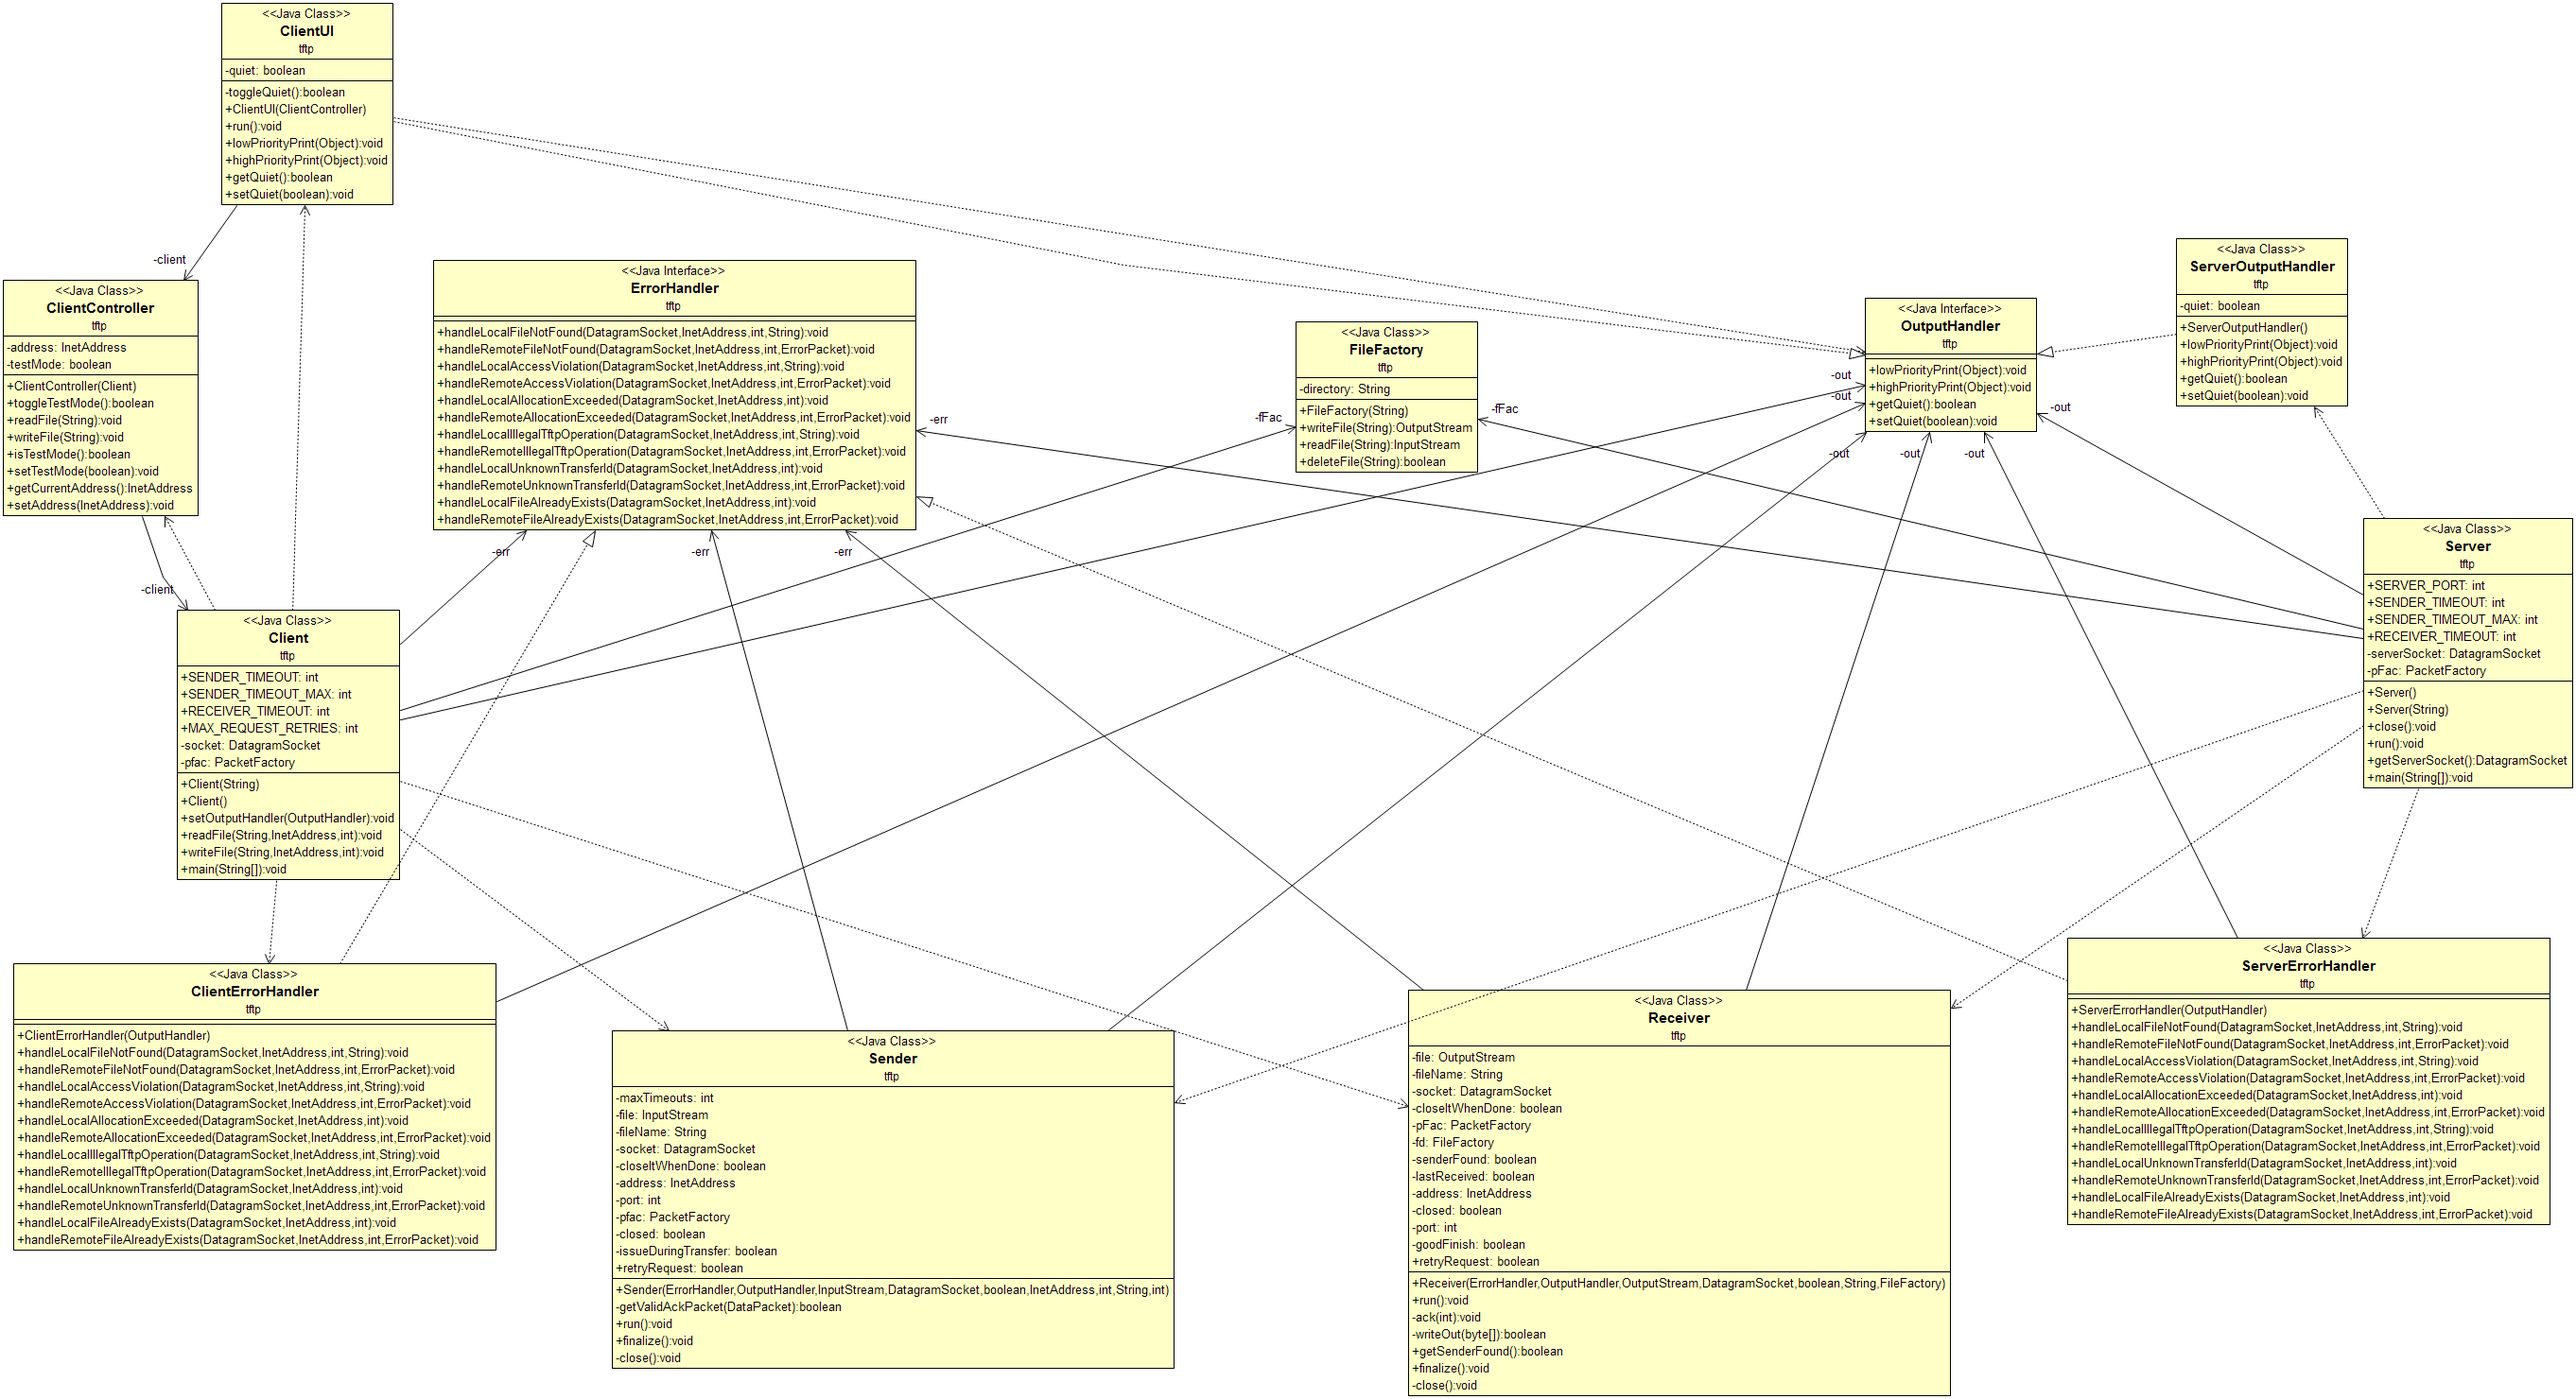
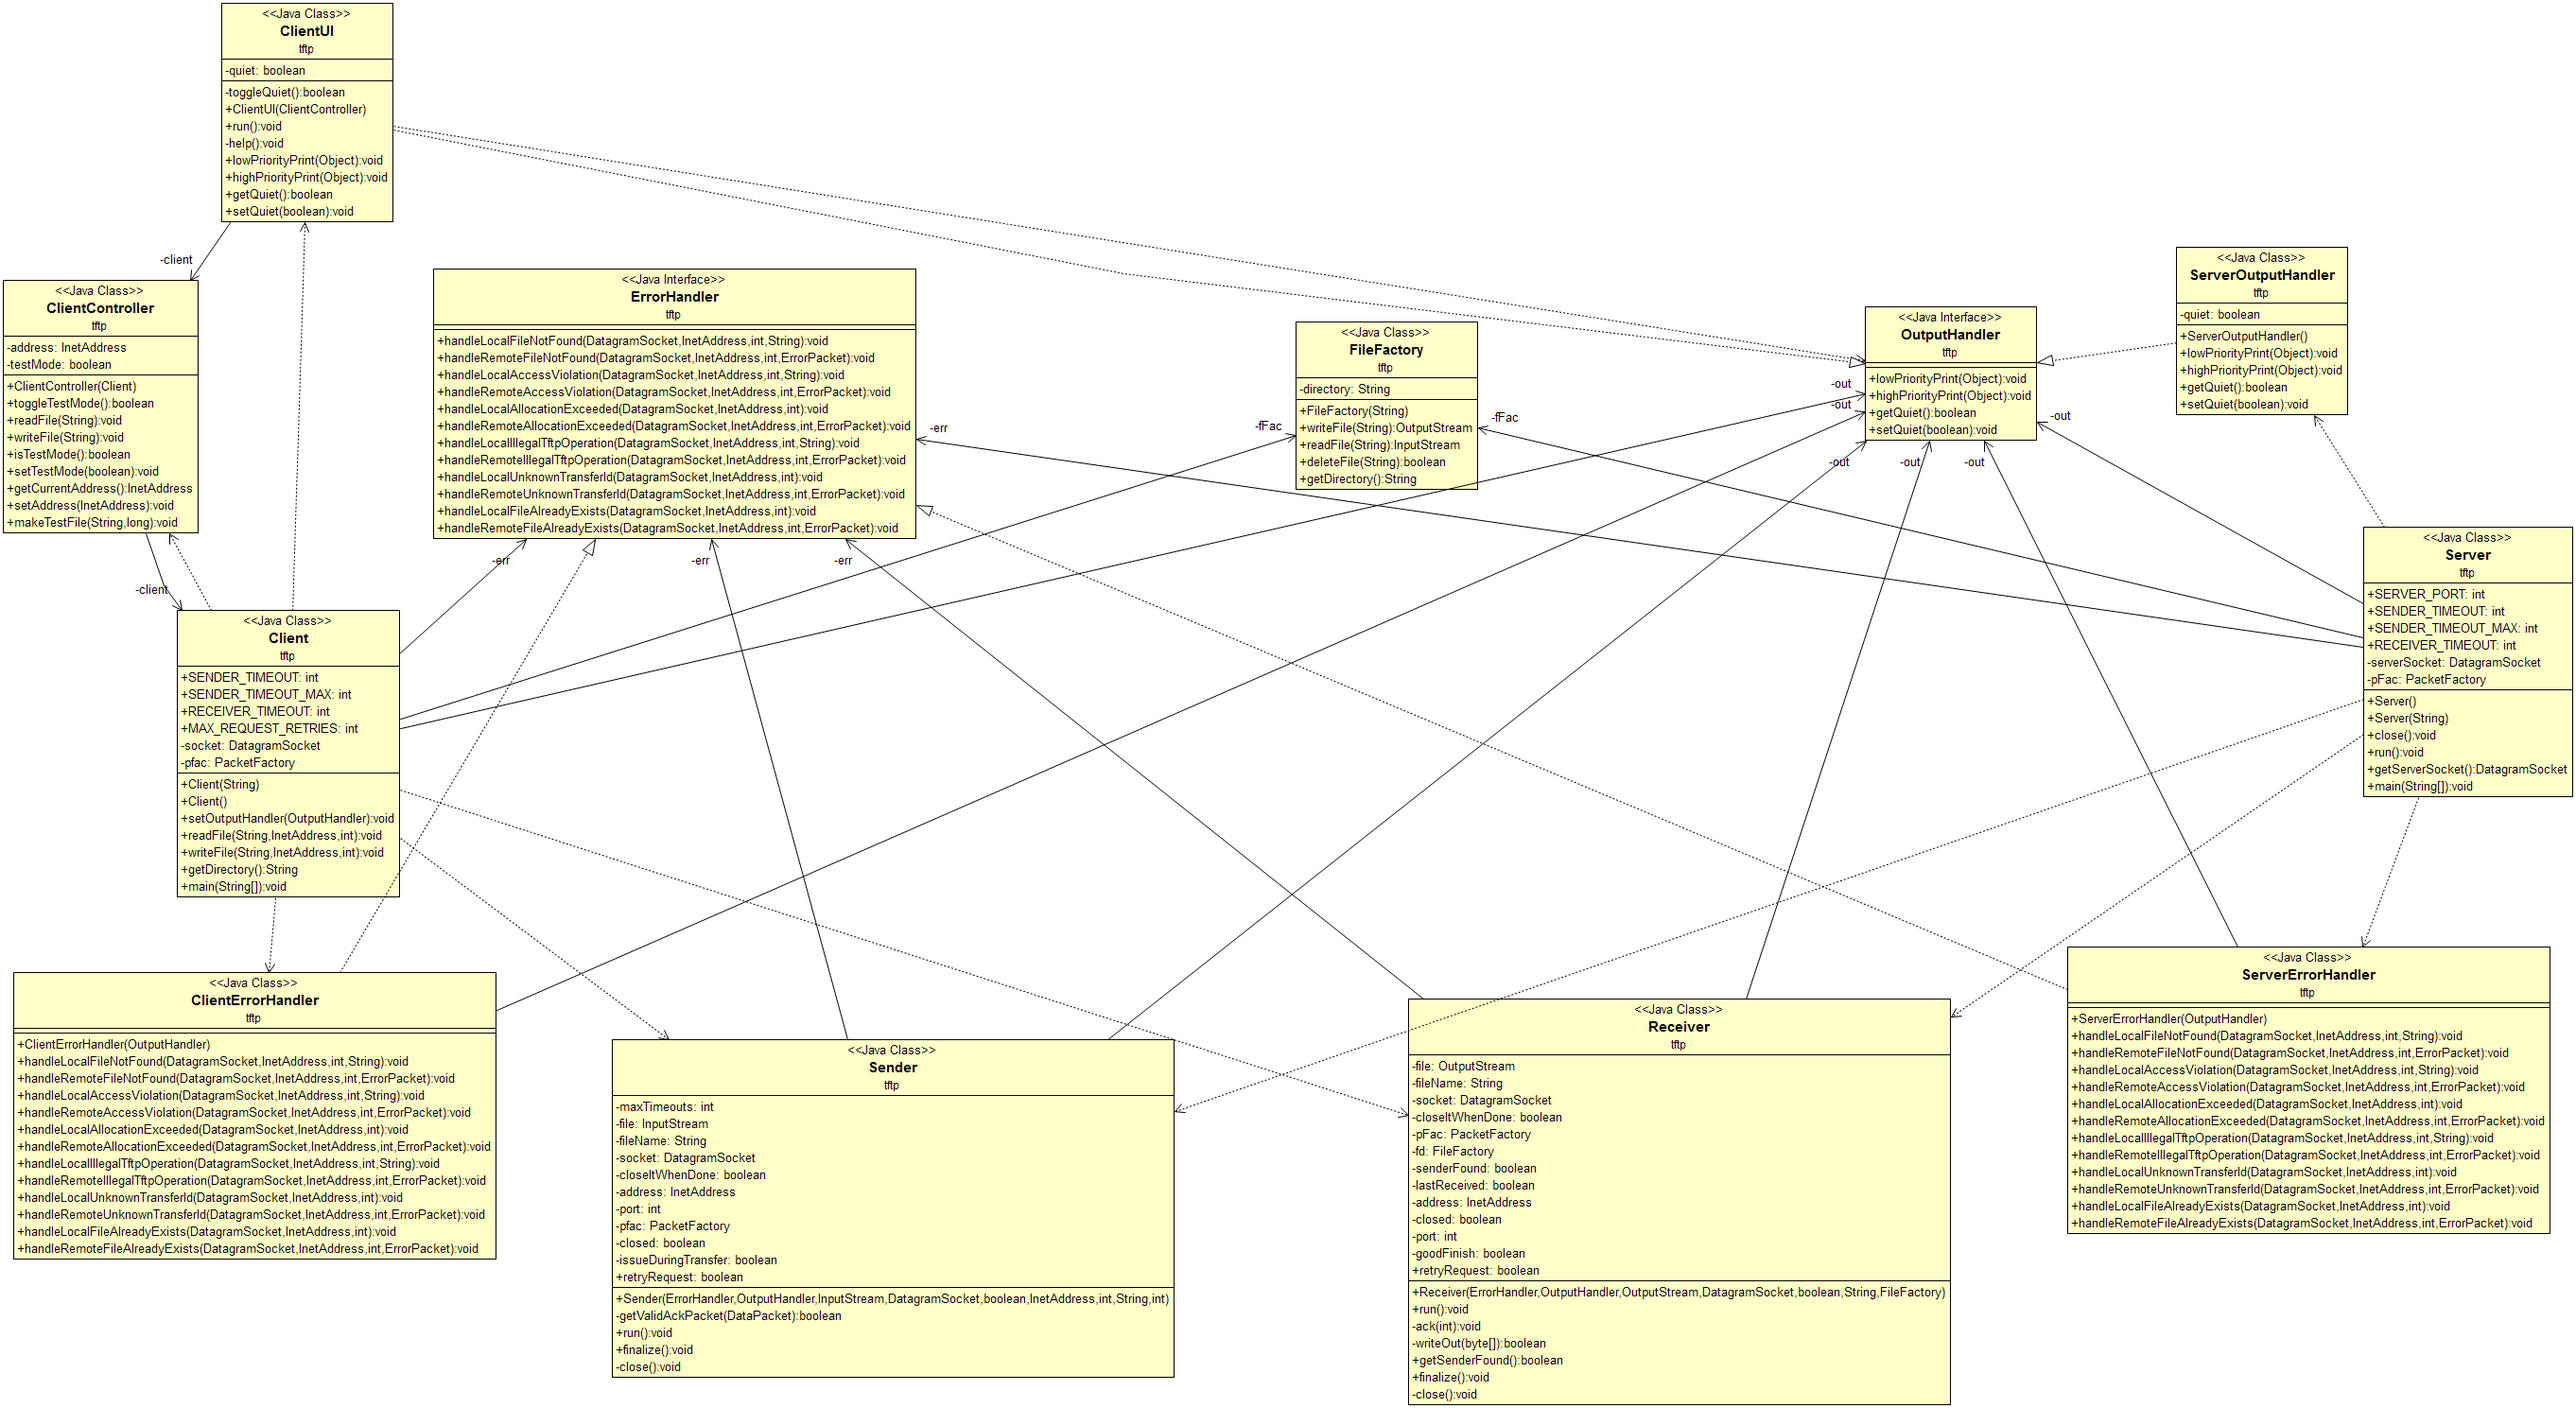
Incorporated making test files into server and client

diff --git a/src/tftp/ClientUI.java b/src/tftp/ClientUI.java
@@ -33,9 +33,7 @@ public class ClientUI implements Runnable, OutputHandler {
 		}
 		System.out.println("Client Running on IP Address : "+ownAddress);
 		System.out.println("Starting the UI ");
-		System.out.println("Type 'set server location (address)");
-		System.out.println("Type 'toggle test' to switch to test mode and 'toggle quiet' to switch to quiet mode. Type 'help' for more information");
-		System.out.println("Type 'read (filename)' to read from server or 'write (filename)' to write to server");
+		help();
 	}
 
 	
@@ -47,7 +45,7 @@ public class ClientUI implements Runnable, OutputHandler {
 				System.out.println("Cannot read input... Try again");
 			}else{
 				s.trim();
-				String[] array = (s+" , ,").split("\\s+");
+				String[] array = (s+" , , , , ,").split("[\\s]+");
 				if ("set".equalsIgnoreCase(array[0]) && "server".equalsIgnoreCase(array[1]) && "location".equalsIgnoreCase(array[2]) ){
 					InetAddress newServerAddress;
 					try{
@@ -57,13 +55,15 @@ public class ClientUI implements Runnable, OutputHandler {
 					}catch(UnknownHostException e){
 						System.out.println("This address is invalid");
 					}
-				}
-				else if("read".equalsIgnoreCase(array[0])){
+				}else if("read".equalsIgnoreCase(array[0])){
 					System.out.println("This a read command");
 					client.readFile(array[1]);
 				}else if("write".equalsIgnoreCase(array[0])){
 					System.out.println("This a write command");
 					client.writeFile(array[1]);
+				}else if("make".equalsIgnoreCase(array[0])){
+					System.out.println("Making test file");
+					client.makeTestFile(array[1], Long.valueOf(array[2]));
 				}else if("toggle".equalsIgnoreCase(array[0])){
 					if("test".equalsIgnoreCase(array[1])){
 						System.out.println((client.toggleTestMode())?("Test mode is now active"):("Test mode is now inactive"));
@@ -73,9 +73,7 @@ public class ClientUI implements Runnable, OutputHandler {
 						System.out.println("Toggle what, test or quiet?");
 					}
 				}else if("help".equalsIgnoreCase(array[0])){
-					System.out.println(
-							"Valid commands are\n"
-							+ "set server location (address), read (file name), write (file name), toggle (quiet|test), help, quit");
+					help();
 				}else if("quit".equalsIgnoreCase(array[0])){
 					break;
 				}
@@ -83,6 +81,25 @@ public class ClientUI implements Runnable, OutputHandler {
 			
 		}
 		sc.close();
+	}
+	
+	private void help(){
+		System.out.println(
+				"Valid commands are\n"
+				+ "set server location (address)\n"
+				+ "\tSet where requests are directed\n\n"
+				+ "read (file name)\n"
+				+ "\tSend a read request for the names file\n\n"
+				+ "write (file name)\n"
+				+ "\tSend a write request for the names file\n\n"
+				+ "toggle (quiet|test)\n"
+				+ "\tChange client configuration\n\n"
+				+ "make (file name) (number of bytes)\n"
+				+ "\tCreate a new test file in the clients working directory\n\n"
+				+ "help\n"
+				+ "\tPrint this message\n\n"
+				+ "quit\n"
+				+ "\tClose thet client");
 	}
 
 	@Override

diff --git a/src/tftp/Server.java b/src/tftp/Server.java
@@ -17,6 +17,7 @@ import packets.PacketFactory;
 import packets.PacketType;
 import packets.ReadRequestPacket;
 import packets.WriteRequestPacket;
+import testFileGeneration.TestFileMaker;
 
 
 /**
@@ -202,10 +203,20 @@ public class Server implements Runnable{
 	        String input = scanner.nextLine();
 	        if(input.toLowerCase().contains("quit")){
 	        	break;
-	        }
-	        else if (input.toLowerCase().contains("toggle quiet")){
+	        }else if (input.toLowerCase().contains("toggle quiet")){
 	        	server.out.setQuiet(!server.out.getQuiet());
 	        	System.out.println(server.out.getQuiet()?("Quiet mode is now active"):("Quiet mode is now inactive"));
+	        }else if (input.toLowerCase().contains("make")){
+	        	String[] in = input.split("[\\s]+");
+	        	if(in.length==3 && in[0].toLowerCase().trim().equalsIgnoreCase("make")){
+	        		try{
+	        			new TestFileMaker(in[1],in[2],server.fFac.getDirectory()).run();
+	        		}catch(Throwable t){
+	        			System.out.println("Could not create the file");
+	        		}
+	        	}
+	        }else{
+	        	System.out.println("Unrecognized command");
 	        }
 	        
 	    }

diff --git a/src/tftp/ClientController.java b/src/tftp/ClientController.java
@@ -4,6 +4,8 @@ package tftp;
 import java.net.InetAddress;
 import java.net.UnknownHostException;
 
+import testFileGeneration.TestFileMaker;
+
 
 /**
  * ClientController controls the Read and Write operations of the client 
@@ -72,6 +74,10 @@ public class ClientController {
 		
 			address=newAddress;
 		
+	}
+
+	public void makeTestFile(String name, long size) {
+		new TestFileMaker(name, Long.valueOf(size).toString(), client.getDirectory()).run();
 	}
 	
 }

diff --git a/src/testFileGeneration/TestFileMaker.java b/src/testFileGeneration/TestFileMaker.java
@@ -1,3 +1,4 @@
+package testFileGeneration;
 import java.io.OutputStream;
 import java.util.Scanner;
 
@@ -38,7 +39,7 @@ public class TestFileMaker implements Runnable {
 		try {
 			System.out.println("Writing "+name);
 			OutputStream out = new FileFactory(path).writeFile(name);
-			int charValue = 0;
+			int charValue = -1;
 			long s = size;
 			while(--s >= 0L){
 				if(s > 0L){

diff --git a/src/tftp/FileFactory.java b/src/tftp/FileFactory.java
@@ -64,6 +64,10 @@ public class FileFactory {
 	public boolean deleteFile(String filePath){
 		return new File(filePath).delete();
 	}
+	
+	public String getDirectory(){
+		return directory;
+	}
 }
 
 

diff --git a/src/tftp/Client.java b/src/tftp/Client.java
@@ -185,6 +185,9 @@ public class Client {
 		}
 	}
 	
+	public String getDirectory(){
+		return fFac.getDirectory();
+	}
 	
 	public static void main(String[] args){
 		Client c;

diff --git a/src/testFileGeneration/MakeTestFiles.java b/src/testFileGeneration/MakeTestFiles.java
@@ -1,3 +1,4 @@
+package testFileGeneration;
 import java.io.IOException;
 import java.io.OutputStream;
 
